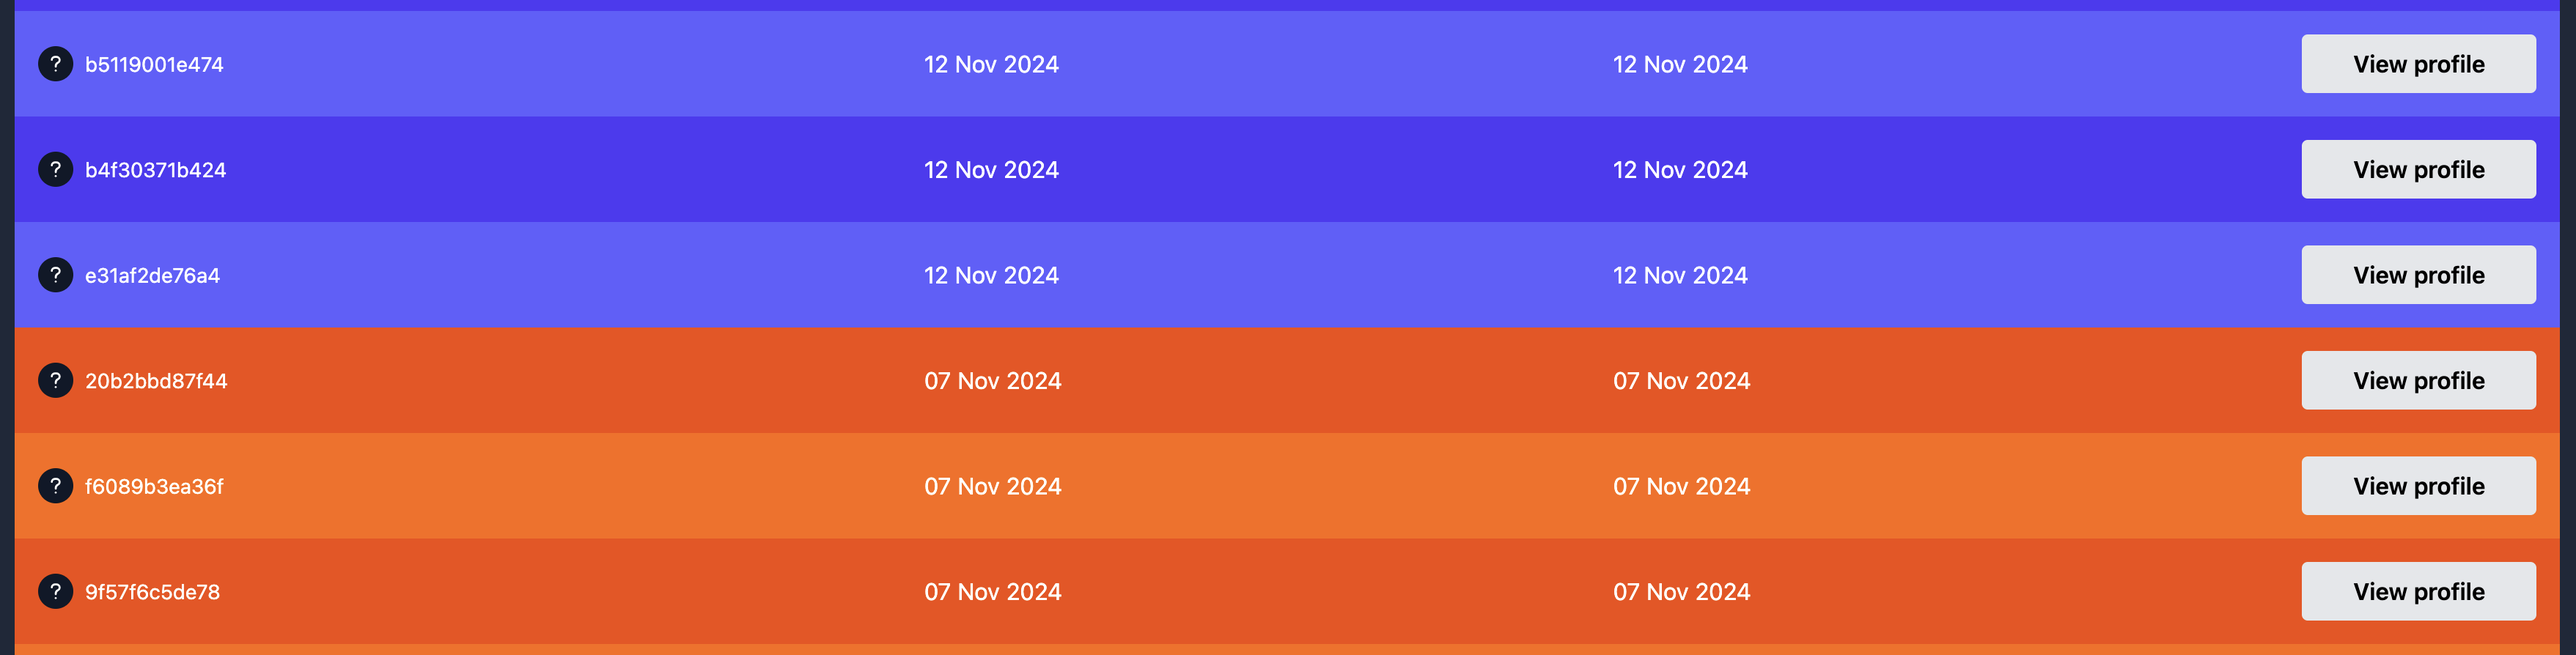
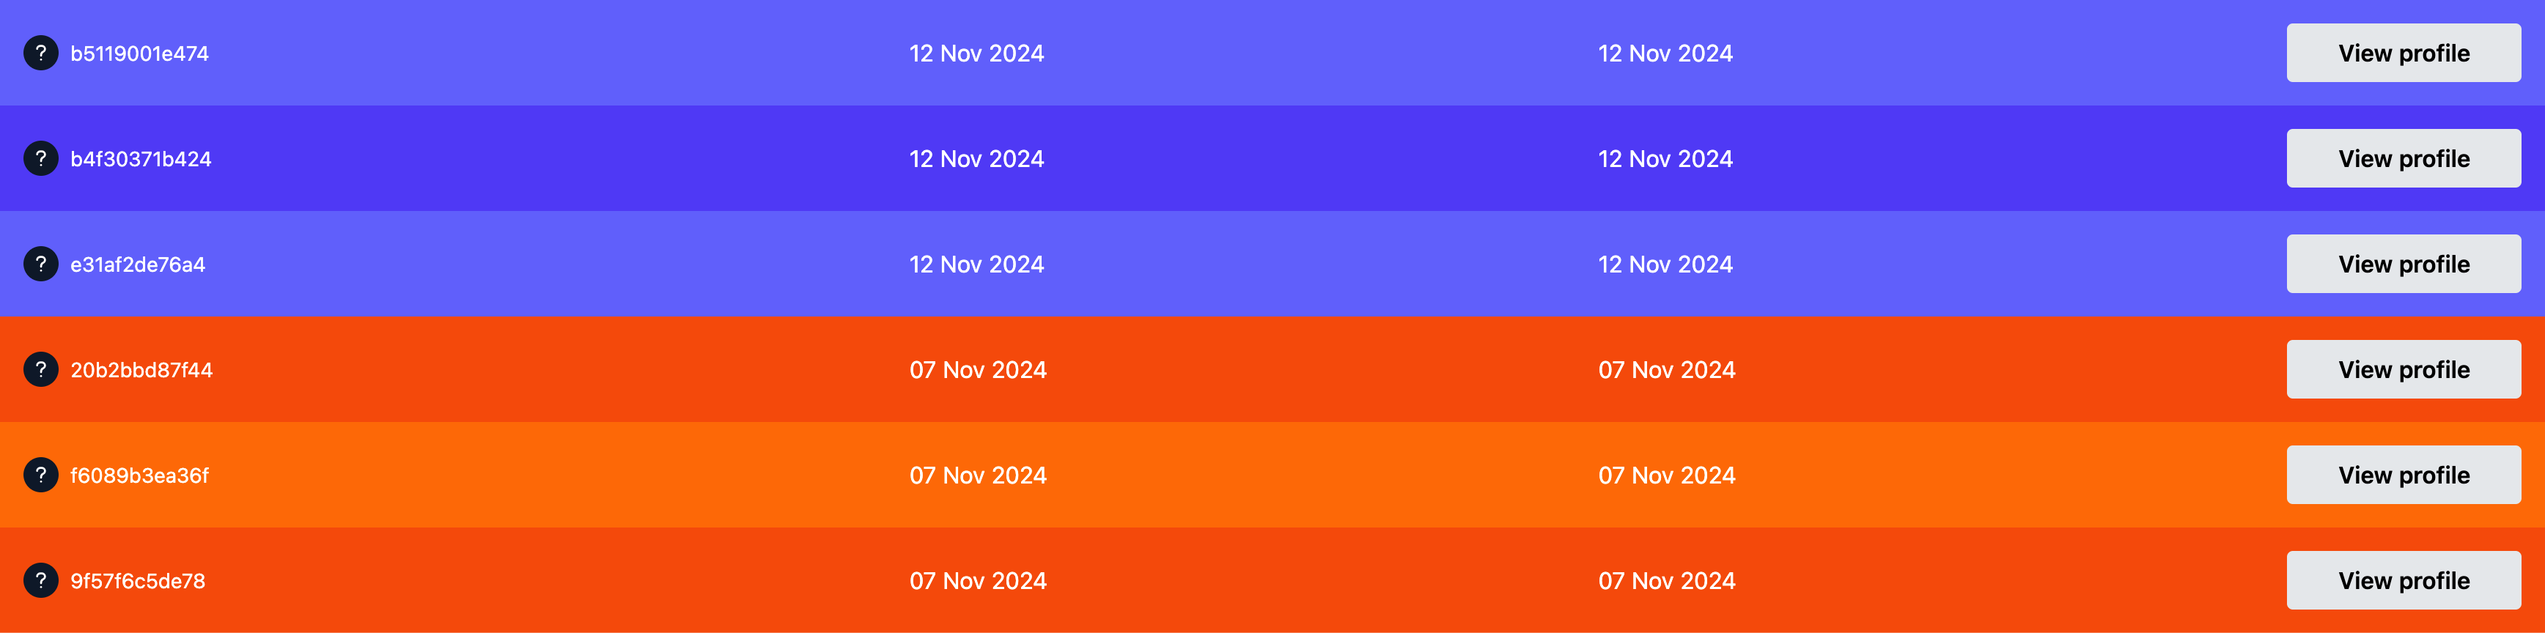
image component

diff --git a/app/components/image.tsx b/app/components/image.tsx
@@ -1,0 +1,19 @@
+import type { ImgHTMLAttributes } from 'react'
+import clsx from 'clsx'
+
+type Props = ImgHTMLAttributes<HTMLImageElement> & {
+  withBackground?: boolean
+}
+
+export function Image({ withBackground = true, className, alt, ...props }: Props) {
+  return (
+    <span
+      className={clsx(
+        withBackground &&
+          'mx-auto mt-8 block rounded-sm bg-linear-to-br from-pink-600 to-indigo-600 p-4 md:w-[90%] md:p-12',
+      )}
+    >
+      <img alt={alt} className={clsx('rounded-md shadow-lg', className)} {...props} />
+    </span>
+  )
+}

diff --git a/app/components/mdx.tsx b/app/components/mdx.tsx
@@ -1,9 +1,11 @@
 import type { MDXComponents } from 'mdx/types'
 import defaultMdxComponents from 'fumadocs-ui/mdx'
+import { Image } from '@/components/image'
 
 export function getMDXComponents(components?: MDXComponents) {
   return {
     ...defaultMdxComponents,
+    img: Image,
     ...components,
   } satisfies MDXComponents
 }
